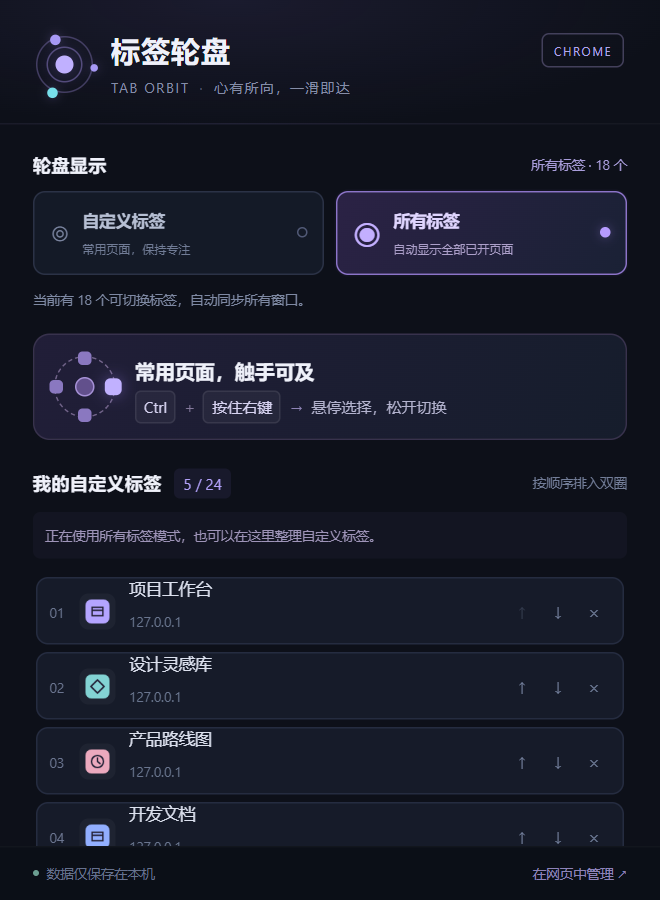
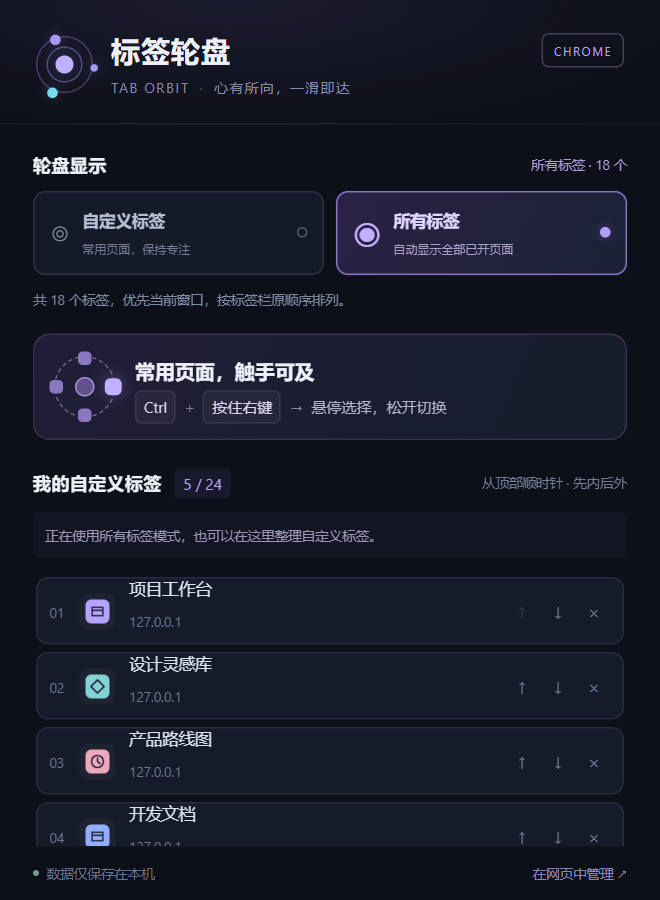
fix: 按浏览器原顺序顺时针排列轮盘

Changed region(s): [[0.0606, 0.3111, 0.5152, 0.3422], [0.7273, 0.5289, 0.9697, 0.56]]

diff --git a/content.js b/content.js
@@ -35,6 +35,7 @@
     .hub-title { max-width: 108px; font-size: 13px; font-weight: 650; white-space: nowrap; overflow: hidden; text-overflow: ellipsis; }
     .hub-caption { font-size: 10px; color: #8f92aa; margin-top: 4px; letter-spacing: .4px; }
     .hub-mode { font-size: 9px; color: #baace8; margin-top: 5px; }
+    .hub-order { font-size: 9px; color: #8b879e; margin-top: 3px; }
     .node { position: absolute; width: var(--node-width); height: var(--node-height); left: 50%; top: 50%; margin-left: calc(var(--node-width) / -2); margin-top: calc(var(--node-height) / -2); border: 1px solid #b7b3dd30; border-radius: 16px; background: #171a2bf2; box-shadow: 0 8px 24px #0004, inset 0 1px #ffffff08; display: flex; align-items: center; justify-content: center; flex-direction: column; gap: 5px; padding: 8px; color: #e5e3f2; transition: transform 130ms cubic-bezier(.2,.8,.2,1), border-color 130ms, background 130ms, box-shadow 130ms; will-change: transform; backdrop-filter: blur(18px); }
     .node.is-selected { z-index: 5; border-color: #d7c6ff; background: #504079fa; box-shadow: 0 0 0 4px #b698ff18, 0 12px 40px #0005, 0 0 36px #ab86ff35; }
     .node.is-closed { opacity: .5; }
@@ -43,6 +44,8 @@
     .node img { width: 22px; height: 22px; object-fit: contain; border-radius: 5px; }
     .favicon { width: 23px; height: 23px; border-radius: 6px; background: #b4a0f72e; color: #d4c5ff; display: grid; place-items: center; flex: none; font-size: 13px; font-weight: 700; }
     .node-title { max-width: 100%; white-space: nowrap; text-overflow: ellipsis; overflow: hidden; font-size: 11px; font-weight: 550; }
+    .sequence-number { position: absolute; left: 7px; top: 5px; font-size: 9px; line-height: 12px; font-weight: 550; color: #8e87a7; font-variant-numeric: tabular-nums; pointer-events: none; }
+    .node.is-selected .sequence-number { color: #e1d3ff; }
     .plus { width: 23px; height: 23px; font-size: 25px; font-weight: 300; line-height: 20px; }
     .wheel-tip { position: absolute; top: calc(var(--size) - 10px); left: 50%; transform: translateX(-50%); display: flex; align-items: center; gap: 9px; white-space: nowrap; padding: 9px 16px; border: 1px solid #bcb5e322; border-radius: 30px; background: #10121fe8; color: #b9b6cc; font-size: 11px; backdrop-filter: blur(12px); }
     .page-indicator { color: #c3b4f1; }
@@ -263,14 +266,14 @@
     const logo = el("span", "hub-logo", "◎");
     logo.style.fontSize = "25px";
     logo.style.lineHeight = "24px";
-    hub.append(logo, el("div", "hub-title", defaultHubTitle()), el("div", "hub-caption", gesture.reselectFrom ? "移动鼠标后选择" : "移回圆心取消"), el("div", "hub-mode", `${gesture.mode === "all" ? "所有" : "自定义"} · ${gesture.items.length} 个${gesture.pages > 1 ? ` · ${gesture.page + 1}/${gesture.pages}` : ""}`));
+    hub.append(logo, el("div", "hub-title", defaultHubTitle()), el("div", "hub-caption", gesture.reselectFrom ? "移动鼠标后选择" : "移回圆心取消"), el("div", "hub-mode", `${gesture.mode === "all" ? "所有" : "自定义"} · ${gesture.items.length} 个${gesture.pages > 1 ? ` · ${gesture.page + 1}/${gesture.pages}` : ""}`), el("div", "hub-order", dual && entries.length > 8 ? "顺时针 · 先内后外" : "从顶部顺时针"));
     disc.append(hub);
-    const innerCount = dual ? (entries.length > 8 ? Math.min(8, Math.ceil(entries.length / 3)) : entries.length) : entries.length;
-    const outerCount = entries.length - innerCount;
+    // 固定前 8 个在内圈、后 16 个在外圈。保留空槽，增减标签时不重新均分或换圈。
+    const innerCount = dual ? Math.min(8, entries.length) : entries.length;
     nodes = entries.map((item, index) => {
       const outer = index >= innerCount;
       const ringIndex = outer ? index - innerCount : index;
-      const ringCount = outer ? outerCount : innerCount;
+      const ringCount = dual ? (outer ? 16 : 8) : innerCount;
       const radius = outer ? layout.outerRadius : layout.radius;
       const angle = -Math.PI / 2 + ringIndex * 2 * Math.PI / ringCount;
       const x = Math.cos(angle) * radius;
@@ -281,9 +284,16 @@
       node.dataset.itemId = item.id;
       node.dataset.ring = outer ? "outer" : "inner";
       if (Number.isInteger(item.tabId)) node.dataset.tabId = String(item.tabId);
+      const order = gesture.page * PAGE_SIZE + index + 1;
+      if (!item.add) {
+        node.dataset.order = String(order);
+        const number = el("span", "sequence-number", String(order).padStart(2, "0"));
+        number.setAttribute("aria-hidden", "true");
+        node.append(number);
+      }
       node.setAttribute("role", "menuitem");
-      node.setAttribute("aria-label", item.add ? "添加已打开的浏览器标签" : `${item.title}${item.available === false ? "（已关闭）" : ""}`);
-      node.title = item.add ? "松开右键，选择已打开的标签" : `${item.title}\n${item.url || ""}`;
+      node.setAttribute("aria-label", item.add ? "添加已打开的浏览器标签" : `${order}. ${item.title}${item.available === false ? "（已关闭）" : ""}`);
+      node.title = item.add ? "松开右键，选择已打开的标签" : `第 ${order} 个 · ${item.title}\n${item.url || ""}`;
       node.append(item.add ? el("span", "plus", "+") : favicon(item));
       node.append(el("span", "node-title", item.available === false ? `已关闭 · ${item.title}` : item.title));
       node.style.transform = `translate(${x}px, ${y}px)`;

diff --git a/background.js b/background.js
@@ -227,6 +227,18 @@ async function currentWindowId(sender) {
 
 async function handleMessage(message, sender) {
   const state = await readState();
+  let windowId = null;
+  if (['wheel:get-state', 'wheel:list-tabs', 'wheel:set-mode'].includes(message.type)) {
+    windowId = await currentWindowId(sender);
+    // Keep each window's tab-strip order; only move the invoking window first.
+    // Do this after resolving saved items so custom ordering stays untouched.
+    if (Number.isInteger(windowId)) {
+      state.tabs = [
+        ...state.tabs.filter((tab) => tab.windowId === windowId),
+        ...state.tabs.filter((tab) => tab.windowId !== windowId)
+      ];
+    }
+  }
   const { items, tabs, settings, currentSession } = state;
   switch (message.type) {
     case 'wheel:get-state':
@@ -238,7 +250,6 @@ async function handleMessage(message, sender) {
       return publicState({ ...state, settings: nextSettings });
     }
     case 'wheel:list-tabs': {
-      const windowId = await currentWindowId(sender);
       return {
         ...publicState(state),
         tabs: tabs.map((tab) => ({

diff --git a/popup.html b/popup.html
@@ -30,7 +30,7 @@
     </section>
 
     <section class="wheel-section" aria-labelledby="wheel-heading">
-      <div class="section-heading"><h2 id="wheel-heading">我的自定义标签 <span id="wheel-count">0 / 24</span></h2><span class="subtle">按顺序排入双圈</span></div>
+      <div class="section-heading"><h2 id="wheel-heading">我的自定义标签 <span id="wheel-count">0 / 24</span></h2><span class="subtle">从顶部顺时针 · 先内后外</span></div>
       <p id="custom-edit-hint" class="custom-edit-hint" hidden>正在使用所有标签模式，也可以在这里整理自定义标签。</p>
       <div id="wheel-items" class="wheel-items" aria-live="polite"></div>
     </section>

diff --git a/popup.js b/popup.js
@@ -111,7 +111,7 @@ function renderMode() {
   }
   $('mode-status').textContent = mode === 'all' ? `所有标签 · ${state.totalTabs} 个` : '自定义标签';
   $('mode-description').textContent = mode === 'all'
-    ? `当前有 ${state.totalTabs} 个可切换标签，自动同步所有窗口。`
+    ? `共 ${state.totalTabs} 个标签，优先当前窗口，按标签栏原顺序排列。`
     : '只显示你添加的标签，较多标签自动分成两圈。';
   $('custom-edit-hint').hidden = mode !== 'all';
 }

diff --git a/docs/RELEASE-v1.1.1.md b/docs/RELEASE-v1.1.1.md
@@ -1,0 +1,38 @@
+# 标签轮盘 Tab Orbit v1.1.1
+
+本次更新修复轮盘顺序难以跟随的问题：**按照原顺序，从顶部顺时针，先内圈再外圈。** 保留已有自定义收藏及人工排列，不增加权限。
+
+## 顺序更清楚
+
+- **所有标签：**呼出轮盘的当前窗口优先，每个窗口内按浏览器标签栏从左到右排列。
+- **自定义标签：**保持插件面板中安排的人工顺序。
+- **单圈：**从 12 点方向开始，按当前数量顺时针均分。
+- **双圈：**前 8 个位置在内圈，第 9–24 个位置在外圈；每圈均从 12 点方向开始顺时针排列。固定内 8 / 外 16 个角槽，不足时留空，不再按数量重新平衡位置。
+- **连续序号：**卡片从 1 开始编号，第二页从 25 继续；「添加标签」入口不编号。轮盘中心新增阅读方向提示。
+
+两种模式、最多 24 个自定义收藏、所有标签滚轮分页、跨窗口切换和取消保护继续保留。删除或人工调整顺序时，后续序号仍会跟着更新；固定槽位不会把标签永久绑定到某个序号。
+
+## 安装和升级
+
+下载发布附件中的 `tab-orbit-v1.1.1.zip`，完整解压后打开 `chrome://extensions/`，开启开发者模式，点击「加载已解压的扩展程序」，选择**直接包含 `manifest.json` 的目录**。安装使用不需要 Node.js。
+
+已有用户请将新版运行文件复制到**原加载目录**，保留现有扩展，点击扩展管理页的「重新加载」，再刷新已经打开的网页。不要卸载后重装，以保留本机收藏、顺序和模式。
+
+发布 ZIP 根目录包含 `manifest.json` 和中文 `INSTALL.txt`，只含运行文件、图标和安装说明。源码、文档与测试在仓库中查看。详细流程见 [安装与更新](https://github.com/woxicaocao/tab-orbit/blob/main/docs/INSTALLATION.md)。
+
+## 本轮验证
+
+2026-10-27 完成：
+
+- `npm run check` 静态检查通过。
+- Node.js 后台测试 **35 / 35 通过**。
+- Chrome for Testing **155.0.8059.39** 完整扩展集成检查 **23 / 23 通过**，未捕获的 JavaScript 错误为 **0**。
+- 真实浏览器中验证了 9、12、24 个标签的固定顺时针布局、移动浏览器标签后的顺序、当前窗口优先、自定义排列保留，以及分页与取消等交互回归。
+
+检查使用独立浏览器配置和本地测试网页；项目首页的单圈、双圈及插件面板截图已更新为 1.1.1 实拍。完整范围见 [测试与发布验证](https://github.com/woxicaocao/tab-orbit/blob/main/README_TESTS.md#111-已验证结果)。
+
+## 使用边界
+
+Chrome 设置页、新标签页、应用商店和内置 PDF 查看器等受限页面无法呼出轮盘，请从普通网页操作。工具栏原生弹出气泡、系统菜单与窗口外释放鼠标仍需按实际环境人工验收，其他系统和 Chrome 版本尚未全面验证。
+
+收藏与模式保存在本机，图标从 Chrome 本地图标缓存读取。数据处理行为与 1.1.0 相同，详见 [隐私与权限说明](https://github.com/woxicaocao/tab-orbit/blob/main/docs/PRIVACY.md)。

diff --git a/README_TESTS.md b/README_TESTS.md
@@ -19,6 +19,14 @@ npm test
 - 跨窗口激活、标签导航和替换、关闭恢复、会话重启后的 tab ID 复用保护。
 - 存储故障恢复、本地 PNG 图标校验、缓存复用，以及图标读取不阻塞切换。
 
+## 1.1.1 顺序修复的检查重点
+
+- 所有标签当前窗口优先，每个窗口内保持标签栏从左到右的顺序；自定义收藏的人工顺序不变。
+- 单圈从 12 点方向起按当前数量顺时针均分；双圈固定前 8 个位置在内圈、后 16 个在外圈。
+- 双圈分别采用固定的 8 / 16 角槽，9 个位置时为内 8 外 1，末尾追加标签不重新平衡内外圈或均分角度。
+- 卡片序号连续，第二页从 25 继续；添加入口不编号，中心方向提示与布局一致。
+- 保留真实悬停命中、放大、松开切换、视口边缘定位、分页与取消保护。
+
 ## 真实浏览器集成测试
 
 安装可选开发工具和测试浏览器：
@@ -57,6 +65,21 @@ npm run package
 
 可在 Windows、macOS 或 Linux 本地依次运行 `npm run check`、`npm test` 和 `npm run package`，完成静态检查、后台测试与打包验证；再次运行打包命令可检查产物一致性。这些脚本不会创建 GitHub Release 或自动上传文件。公开仓库不提供 GitHub Actions 工作流。
 
-## 已验证结果
+## 1.1.1 已验证结果
+
+2026-10-27，`npm run check` 通过，`npm test` 后台测试 **35 / 35 通过**；Chrome for Testing **155.0.8059.39** 完整扩展集成检查 **23 / 23 通过**，未捕获的 JavaScript 错误为 **0**。
+
+本轮使用真实浏览器输入与标签 API 验证：
+
+- 9、12、24 个自定义标签均按前 8 个内圈、其余外圈排列，各圈从 12 点起顺时针；固定槽位不随末尾数量变化重新均分。
+- 通过 `chrome.tabs.move` 实际改变标签顺序后，所有标签跟随浏览器标签栏从左到右排列；激活变化不会改为最近使用顺序。
+- 自定义模式保留人工收藏顺序和编号，从另一窗口呼出时所有标签优先显示该窗口。
+- 原有双圈内外命中、窄窗口与边缘定位、跨窗口激活、滚轮分页与尾页可达、取消和收藏恢复检查继续通过。
+
+本机验收报告为 `test-artifacts/run-2026-10-27T03-29-50-826Z/report.json`；报告与浏览器 profile 被 Git 忽略，不进入仓库或发布包。README 使用的单圈、双圈和插件面板截图已重新截取自 1.1.1 并目视检查。
+
+工具栏原生弹出气泡、系统菜单与窗口外释放鼠标等系统层面的行为仍需人工验收；这些结果不表示其他系统或全部 Chrome 版本均已验证。
+
+## 历史已验证结果
 
 2026-10-18，v1.1.0 后台测试 **31 / 31 通过**；Chrome for Testing **155.0.8059.39** 完整扩展集成检查 **19 / 19 通过**，未捕获的 JavaScript 错误为 0。双圈、窄窗口、边缘定位和管理弹窗截图已经检查，无卡片重叠。

diff --git a/docs/INSTALLATION.md b/docs/INSTALLATION.md
@@ -35,7 +35,7 @@ Tab Orbit 目前通过 Chrome 的「加载已解压的扩展程序」安装。**
 2. 打开页面右上角的**开发者模式**。
 3. 点击**加载已解压的扩展程序**。
 4. 选择上一步直接包含 `manifest.json` 的文件夹。
-5. 确认出现「标签轮盘 Tab Orbit」卡片，版本为 **1.1.0**，且扩展开关已打开。
+5. 确认出现「标签轮盘 Tab Orbit」卡片，版本为 **1.1.1**，且扩展开关已打开。
 
 ![Chrome 本地安装流程示意：开发者模式、加载解压目录、选择 manifest.json 所在文件夹、刷新网页](assets/install-steps.svg)
 
@@ -54,7 +54,9 @@ Tab Orbit 目前通过 Chrome 的「加载已解压的扩展程序」安装。**
 
 回到一个普通 `https://` 或 `http://` 网页，在网页主体区域先按住 **Ctrl**，再按住**右键**。把鼠标滑到卡片上，看到它放大后，**松开右键**切换。
 
-所有标签超过 24 个时，保持右键按住并滚动滚轮翻页。翻页后先移动鼠标再选择；想取消时移回圆心松手，或按 `Esc`。
+所有标签按当前窗口优先、各窗口标签栏从左到右排列；自定义标签保持你在面板中安排的顺序。单圈从 12 点方向起顺时针排列；双圈先读内圈前 8 个，再读外圈第 9–24 个，固定槽位不足时留空。
+
+所有标签超过 24 个时，保持右键按住并滚动滚轮翻页，序号从 25 继续。翻页后先移动鼠标再选择；想取消时移回圆心松手，或按 `Esc`。「添加标签」入口占位置但不编号。
 
 ## 从旧版本更新，保留收藏
 
@@ -65,7 +67,7 @@ Tab Orbit 目前通过 Chrome 的「加载已解压的扩展程序」安装。**
 3. 打开 `chrome://extensions`，在已有「标签轮盘 Tab Orbit」卡片上点击**重新加载**。
 4. 确认扩展卡片显示新版本，再**刷新已经打开的网页**。
 
-自定义收藏、顺序和模式保存在 Chrome 的扩展本地存储中，不在安装文件夹里。保留原扩展并重新加载时，这些数据会继续使用；1.0 的收藏升级到 1.1 后也会保留。
+自定义收藏、顺序和模式保存在 Chrome 的扩展本地存储中，不在安装文件夹里。保留原扩展并重新加载时，这些数据会继续使用；从 1.0 或 1.1.0 升级到 1.1.1 也会保留原收藏和人工顺序。
 
 如果升级后出现 `Unknown operation`、「未知的轮盘操作」或新旧界面混用，先按 [常见问题中的更新排错](FAQ.md#更新后提示未知的轮盘操作怎么办)处理，通常无需卸载。
 

diff --git a/docs/FAQ.md b/docs/FAQ.md
@@ -22,9 +22,17 @@
 
 切换模式不会清空自定义收藏和顺序。在所有标签模式下，也可以继续通过插件面板整理自定义收藏。
 
+## 轮盘顺序如何对应浏览器标签栏？
+
+1.1.1 中，**所有标签模式先显示呼出轮盘的当前窗口**，再显示其他窗口；每个窗口内按浏览器标签栏从左到右排列，不按最近使用排序。**自定义模式保留你在插件面板中人工安排的顺序**，不会跟随浏览器标签栏拖动重新排序。
+
+卡片从 1 开始编号，翻到第二页时从 25 继续；「添加标签」入口不编号。各圈都从 12 点方向起顺时针阅读，双圈按**先内圈、后外圈**的顺序衔接，轮盘中心也有方向提示。
+
 ## 标签多时，为什么会分成两圈？
 
-不超过 8 个位置时使用单圈；更多时使用双圈，内圈最多 8 个、外圈最多 16 个，每页总计最多 24 个位置，不增加第三圈。双圈会根据数量分配内外圈位置，并非总是先填满内圈。
+不超过 8 个位置时使用单圈，按当前数量均分一圈；更多时使用双圈，每页前 8 个位置在内圈，第 9–24 个位置在外圈，不增加第三圈。
+
+**双圈固定为内圈 8 个、外圈 16 个角槽。** 不足的位置会留空，不会为了填满整圈而重新均分或把已有标签重新平衡到另一圈。例如 9 个位置时，是内圈 8 个加外圈 1 个，外圈其余位置留空。在列表末尾追加标签时，原有卡片角度不变；在中间插入、删除或重新排序标签时，后续序号和位置仍会相应更新。
 
 自定义模式的「添加标签」也占一个位置：例如 7 个收藏加 1 个添加入口是单圈，8 个收藏加入口时使用双圈。收藏满 24 个后隐藏添加入口，所有位置都留给收藏。
 
@@ -68,7 +76,7 @@
 
 1. 打开 `chrome://extensions`，核对正在启用的「标签轮盘 Tab Orbit」卡片和版本。
 2. 确认新版本文件已复制到**这张卡片原来加载的目录**，而不是另一个同名目录。
-3. 在原扩展卡片上点击**重新加载**，确认版本为 1.1.0。
+3. 在原扩展卡片上点击**重新加载**，确认版本为 1.1.1。
 4. 关闭旧插件面板，**刷新原来已经打开的网页**，再重新打开面板或呼出轮盘。
 5. 若存在多份同名扩展，先确认各自版本和加载目录，只启用你准备使用的那一份，避免新旧版本同时响应。
 

diff --git a/CHANGELOG.md b/CHANGELOG.md
@@ -2,6 +2,22 @@
 
 [返回项目首页](README.md) · [下载最新版](https://github.com/woxicaocao/tab-orbit/releases/latest) · [安装与更新](docs/INSTALLATION.md)
 
+## 1.1.1 · 2026-10-27
+
+### 顺序与布局修复
+
+- **所有标签按标签栏顺序：**呼出轮盘的当前窗口优先，每个窗口内从左到右排列；自定义收藏继续保持人工顺序。
+- **固定先内后外：**双圈前 8 个位置放内圈，第 9–24 个放外圈；各圈均从 12 点方向起顺时针排列。
+- **固定双圈角槽：**内圈 8 槽、外圈 16 槽，不足时留空，不再随标签数量重新平衡或均分；单圈仍按当前数量均分。
+- **增加顺序指引：**真实标签显示连续序号，第二页从 25 继续；「添加标签」不编号，轮盘中心提示阅读方向。
+- 保留两种模式、收藏与排序、滚轮分页、跨窗口切换及原有取消保护；不增加权限。
+
+### 验证
+
+2026-10-27，静态检查通过，Node.js 后台测试 **35 / 35**、Chrome for Testing **155.0.8059.39** 集成检查 **23 / 23** 通过，未捕获的 JavaScript 错误为 **0**。本轮覆盖固定槽位、真实标签移动后的排列、当前窗口优先、自定义顺序保留及原有交互回归；README 截图已更新为 1.1.1 实拍。详见 [测试与发布验证](README_TESTS.md#111-已验证结果)。
+
+**升级：**将新文件复制到原加载目录，保留现有扩展，在 `chrome://extensions` 中重新加载并刷新已打开网页，无需卸载或安装 Node.js。
+
 ## 1.1.0 · 2026-10-18
 
 ### 新增

diff --git a/docs/PRIVACY.md b/docs/PRIVACY.md
@@ -2,7 +2,7 @@
 
 [← 返回项目首页](../README.md) · [安装指南](INSTALLATION.md) · [常见问题](FAQ.md)
 
-本文描述 **Tab Orbit 1.1.0 当前代码的实际行为**。收藏和模式保存在当前 Chrome 用户配置的本机扩展存储中；插件没有自建服务器、账号系统、统计 SDK 或远程上传接口。
+本文描述 **Tab Orbit 1.1.1 当前代码的实际行为**。收藏和模式保存在当前 Chrome 用户配置的本机扩展存储中；插件没有自建服务器、账号系统、统计 SDK 或远程上传接口。
 
 ## 读取哪些数据？
 
